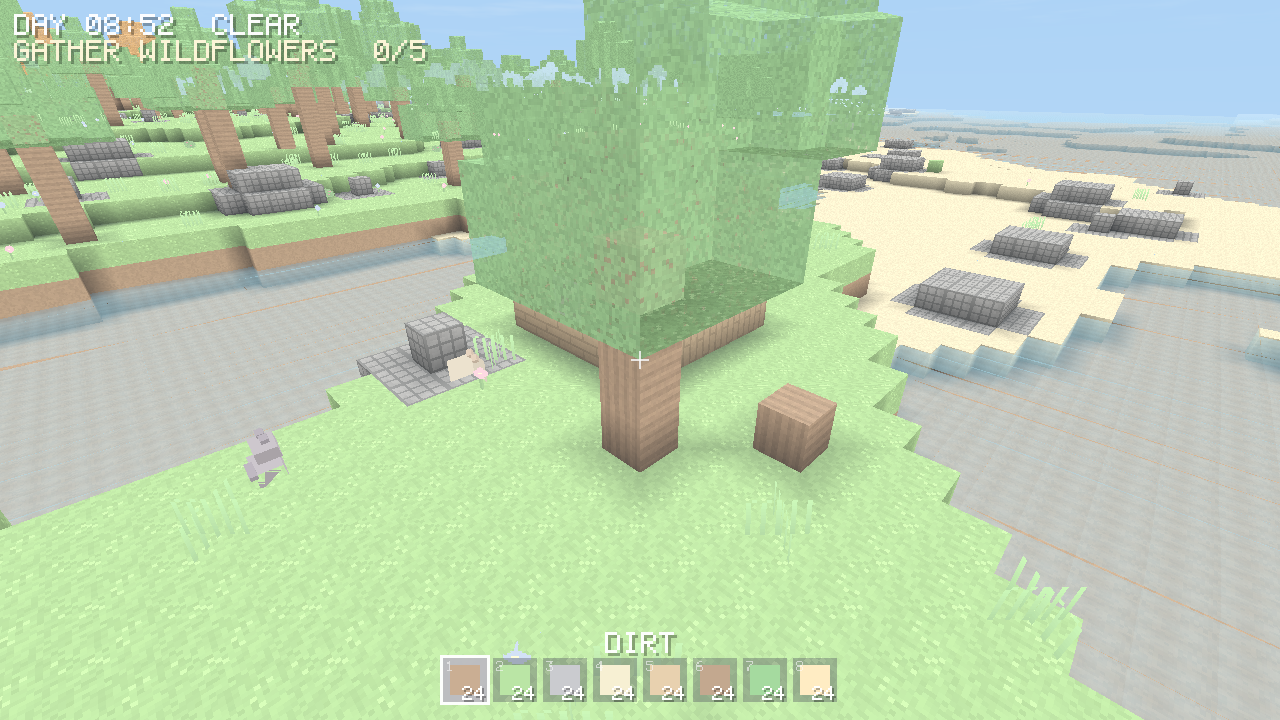
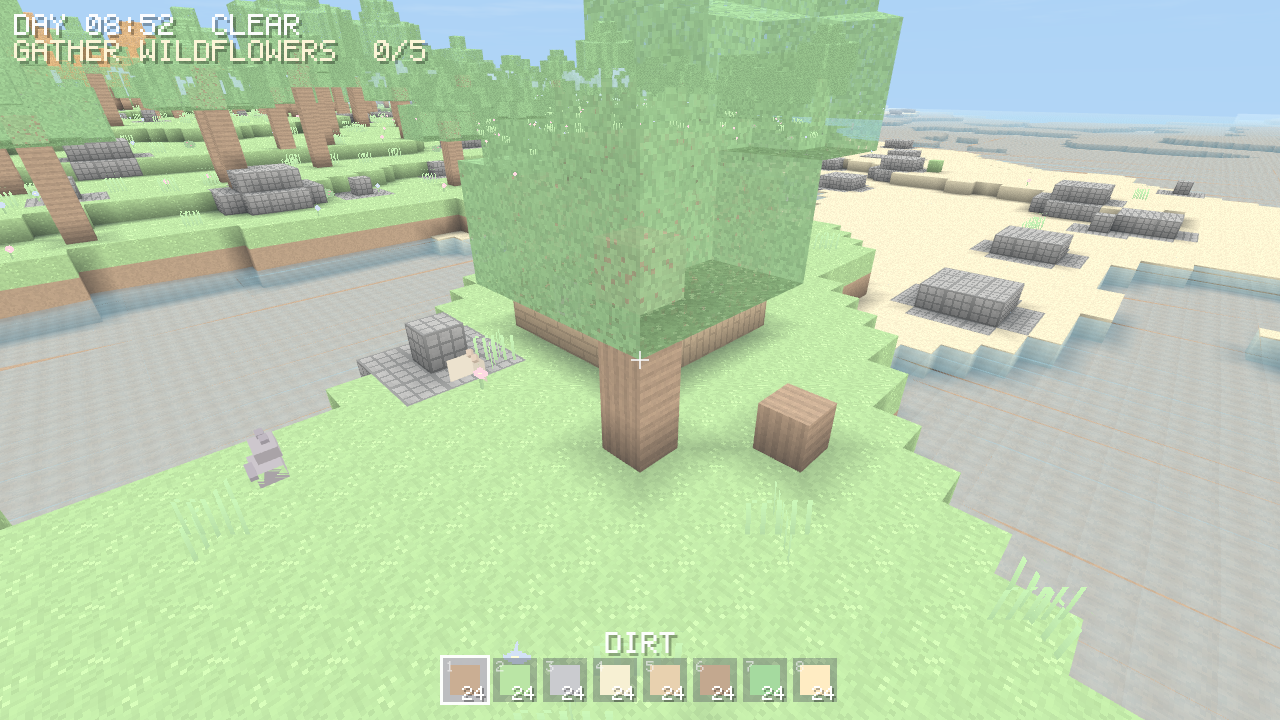
Stage 37: 4x MSAA
- Render into a 4x multisampled colour+depth target and resolve to the surface
  (windowed) or the offscreen texture (capture). All pipelines (sky, opaque,
  transparent, UI) use the shared sample count. Smooths the blocky silhouettes
  and tree/terrain edges against the sky.

diff --git a/crates/game/src/render/scene.rs b/crates/game/src/render/scene.rs
@@ -19,6 +19,32 @@ use crate::streaming::ChunkManager;
 pub const CHUNK_EDGE: f32 = CHUNK_SIZE as f32;
 
 pub const DEPTH_FORMAT: wgpu::TextureFormat = wgpu::TextureFormat::Depth32Float;
+/// MSAA sample count, for smoother block silhouettes.
+pub const SAMPLE_COUNT: u32 = 4;
+
+/// Create a multisampled colour target to render into before resolving.
+pub fn create_msaa_color(
+    device: &wgpu::Device,
+    format: wgpu::TextureFormat,
+    width: u32,
+    height: u32,
+) -> wgpu::TextureView {
+    let tex = device.create_texture(&wgpu::TextureDescriptor {
+        label: Some("msaa-color"),
+        size: wgpu::Extent3d {
+            width: width.max(1),
+            height: height.max(1),
+            depth_or_array_layers: 1,
+        },
+        mip_level_count: 1,
+        sample_count: SAMPLE_COUNT,
+        dimension: wgpu::TextureDimension::D2,
+        format,
+        usage: wgpu::TextureUsages::RENDER_ATTACHMENT,
+        view_formats: &[],
+    });
+    tex.create_view(&wgpu::TextureViewDescriptor::default())
+}
 
 /// Uniform block shared with `world.wgsl`. Layout must match the WGSL `Globals`.
 #[repr(C)]
@@ -398,6 +424,7 @@ impl GpuScene {
         &self,
         encoder: &mut wgpu::CommandEncoder,
         color: &wgpu::TextureView,
+        resolve: Option<&wgpu::TextureView>,
         depth: &wgpu::TextureView,
         clear: Vec3,
         frustum: &Frustum,
@@ -406,7 +433,7 @@ impl GpuScene {
             label: Some("world-pass"),
             color_attachments: &[Some(wgpu::RenderPassColorAttachment {
                 view: color,
-                resolve_target: None,
+                resolve_target: resolve,
                 ops: wgpu::Operations {
                     load: wgpu::LoadOp::Clear(wgpu::Color {
                         r: clear.x as f64,
@@ -487,7 +514,7 @@ fn draw_layer<'a>(pass: &mut wgpu::RenderPass<'a>, layer: &'a GpuLayer) {
     pass.draw_indexed(0..layer.index_count, 0, 0..1);
 }
 
-/// Create a depth texture view sized to the target.
+/// Create a (multisampled) depth texture view sized to the target.
 pub fn create_depth(device: &wgpu::Device, width: u32, height: u32) -> wgpu::TextureView {
     let texture = device.create_texture(&wgpu::TextureDescriptor {
         label: Some("depth"),
@@ -497,7 +524,7 @@ pub fn create_depth(device: &wgpu::Device, width: u32, height: u32) -> wgpu::Tex
             depth_or_array_layers: 1,
         },
         mip_level_count: 1,
-        sample_count: 1,
+        sample_count: SAMPLE_COUNT,
         dimension: wgpu::TextureDimension::D2,
         format: DEPTH_FORMAT,
         usage: wgpu::TextureUsages::RENDER_ATTACHMENT,
@@ -600,7 +627,10 @@ fn make_pipeline(
             stencil: wgpu::StencilState::default(),
             bias: wgpu::DepthBiasState::default(),
         }),
-        multisample: wgpu::MultisampleState::default(),
+        multisample: wgpu::MultisampleState {
+            count: SAMPLE_COUNT,
+            ..Default::default()
+        },
         multiview: None,
         cache: None,
     })
@@ -647,7 +677,10 @@ fn make_sky_pipeline(
             stencil: wgpu::StencilState::default(),
             bias: wgpu::DepthBiasState::default(),
         }),
-        multisample: wgpu::MultisampleState::default(),
+        multisample: wgpu::MultisampleState {
+            count: SAMPLE_COUNT,
+            ..Default::default()
+        },
         multiview: None,
         cache: None,
     })
@@ -711,7 +744,10 @@ fn make_ui_pipeline(device: &wgpu::Device, format: wgpu::TextureFormat) -> wgpu:
             stencil: wgpu::StencilState::default(),
             bias: wgpu::DepthBiasState::default(),
         }),
-        multisample: wgpu::MultisampleState::default(),
+        multisample: wgpu::MultisampleState {
+            count: SAMPLE_COUNT,
+            ..Default::default()
+        },
         multiview: None,
         cache: None,
     })

diff --git a/crates/game/src/render/window.rs b/crates/game/src/render/window.rs
@@ -3,7 +3,7 @@
 
 use std::sync::Arc;
 
-use super::scene::{create_depth, request_device, GpuScene};
+use super::scene::{create_depth, create_msaa_color, request_device, GpuScene};
 use crate::camera::Camera;
 use crate::environment::Environment;
 use crate::streaming::ChunkManager;
@@ -12,6 +12,7 @@ pub struct Renderer {
     surface: wgpu::Surface<'static>,
     config: wgpu::SurfaceConfiguration,
     depth_view: wgpu::TextureView,
+    msaa_view: wgpu::TextureView,
     scene: GpuScene,
 }
 
@@ -46,12 +47,14 @@ impl Renderer {
         };
         surface.configure(&device, &config);
         let depth_view = create_depth(&device, config.width, config.height);
+        let msaa_view = create_msaa_color(&device, format, config.width, config.height);
         let scene = GpuScene::new(device, queue, format);
 
         Self {
             surface,
             config,
             depth_view,
+            msaa_view,
             scene,
         }
     }
@@ -72,6 +75,7 @@ impl Renderer {
         self.config.height = height;
         self.surface.configure(&self.scene.device, &self.config);
         self.depth_view = create_depth(&self.scene.device, width, height);
+        self.msaa_view = create_msaa_color(&self.scene.device, self.config.format, width, height);
     }
 
     pub fn aspect(&self) -> f32 {
@@ -152,9 +156,11 @@ impl Renderer {
                 .create_command_encoder(&wgpu::CommandEncoderDescriptor {
                     label: Some("frame-encoder"),
                 });
+        // Render into the multisampled target, resolving into the surface view.
         self.scene.encode(
             &mut encoder,
-            &view,
+            &self.msaa_view,
+            Some(&view),
             &self.depth_view,
             env.sky_color(),
             &frustum,

diff --git a/crates/game/src/render/capture.rs b/crates/game/src/render/capture.rs
@@ -21,6 +21,7 @@ pub struct Headless {
     height: u32,
     color_texture: wgpu::Texture,
     color_view: wgpu::TextureView,
+    msaa_view: wgpu::TextureView,
     depth_view: wgpu::TextureView,
     output_buffer: wgpu::Buffer,
     padded_bytes_per_row: u32,
@@ -55,6 +56,7 @@ impl Headless {
             view_formats: &[],
         });
         let color_view = color_texture.create_view(&wgpu::TextureViewDescriptor::default());
+        let msaa_view = super::scene::create_msaa_color(&device, FORMAT, width, height);
         let depth_view = create_depth(&device, width, height);
 
         let padded_bytes_per_row = align_up(width * 4, wgpu::COPY_BYTES_PER_ROW_ALIGNMENT);
@@ -73,6 +75,7 @@ impl Headless {
             height,
             color_texture,
             color_view,
+            msaa_view,
             depth_view,
             output_buffer,
             padded_bytes_per_row,
@@ -173,14 +176,16 @@ impl Headless {
                 .create_command_encoder(&wgpu::CommandEncoderDescriptor {
                     label: Some("capture-encoder"),
                 });
+        // Render multisampled, resolving into the single-sample colour texture.
         self.scene.encode(
             &mut encoder,
-            &self.color_view,
+            &self.msaa_view,
+            Some(&self.color_view),
             &self.depth_view,
             env.sky_color(),
             &frustum,
         );
-        // Copy the rendered texture into the mappable readback buffer.
+        // Copy the resolved texture into the mappable readback buffer.
         encoder.copy_texture_to_buffer(
             wgpu::ImageCopyTexture {
                 texture: &self.color_texture,
